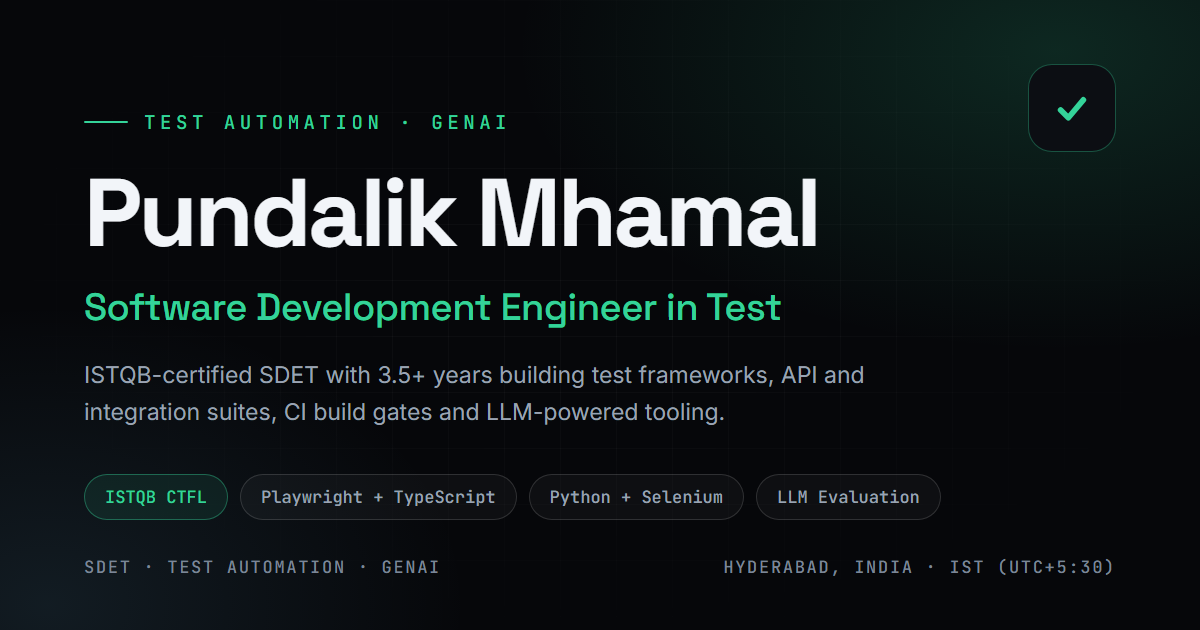
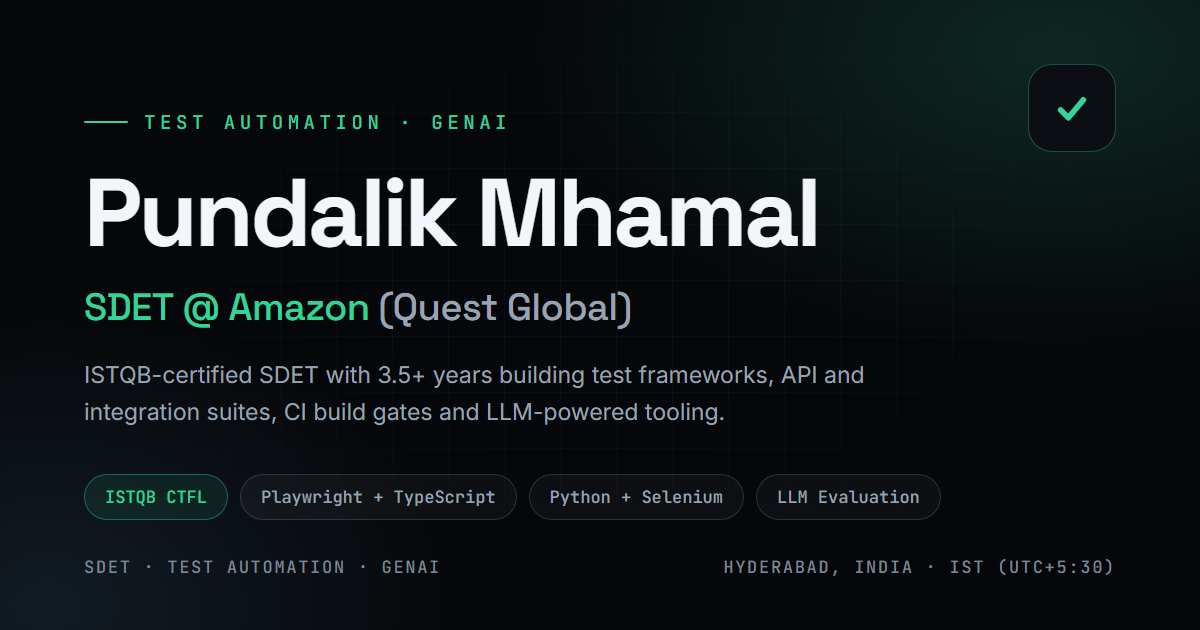
Show the current role as SDET @ Amazon (Quest Global)
At the owner's request, the current role reads "SDET @ Amazon (Quest
Global)" everywhere instead of naming People Tech. Each line stays
literally true ("@ Amazon", "with an Amazon engineering team ... through
Quest Global"); nothing says he was hired by Amazon.

- Hero gains an "SDET @ Amazon (Quest Global)" line above the name.
- Experience, About, contact, footer, loader, page title, share metadata,
  README and the OG card all follow suit.

Changed region(s): [[0.0925, 0.4524, 0.6475, 0.5429]]

diff --git a/index.html b/index.html
@@ -6,20 +6,20 @@
     <meta name="viewport" content="width=device-width, initial-scale=1.0" />
     <meta name="theme-color" content="#06070a" />
 
-    <title>Pundalik Mhamal — SDET</title>
-    <meta name="description" content="Pundalik Mhamal — Software Development Engineer in Test. ISTQB CTFL certified, 3.5+ years building test automation: Playwright + TypeScript, Python + Selenium + BDD, API and integration testing, CI build gates and LLM-powered tooling." />
+    <title>Pundalik Mhamal — SDET @ Amazon (Quest Global)</title>
+    <meta name="description" content="Pundalik Mhamal — SDET @ Amazon (Quest Global). ISTQB CTFL certified, 3.5+ years building test automation: Playwright + TypeScript, Python + Selenium + BDD, API and integration testing, CI build gates and LLM-powered tooling." />
     <meta name="author" content="Pundalik Mhamal" />
     <link rel="canonical" href="https://iampundalikportfolio.netlify.app/" />
 
     <meta property="og:type" content="profile" />
-    <meta property="og:title" content="Pundalik Mhamal — SDET" />
-    <meta property="og:description" content="Software Development Engineer in Test. Test automation frameworks in Playwright + TypeScript and Python + Selenium, API and integration testing, and LLM-powered tooling." />
+    <meta property="og:title" content="Pundalik Mhamal — SDET @ Amazon (Quest Global)" />
+    <meta property="og:description" content="SDET @ Amazon (Quest Global). Test automation frameworks in Playwright + TypeScript and Python + Selenium, API and integration testing, and LLM-powered tooling." />
     <meta property="og:url" content="https://iampundalikportfolio.netlify.app/" />
     <meta property="og:image" content="https://iampundalikportfolio.netlify.app/og.png" />
 
     <meta name="twitter:card" content="summary_large_image" />
-    <meta name="twitter:title" content="Pundalik Mhamal — SDET" />
-    <meta name="twitter:description" content="Software Development Engineer in Test. Test automation frameworks, API and integration testing, and LLM-powered tooling." />
+    <meta name="twitter:title" content="Pundalik Mhamal — SDET @ Amazon (Quest Global)" />
+    <meta name="twitter:description" content="SDET @ Amazon (Quest Global). Test automation frameworks, API and integration testing, and LLM-powered tooling." />
     <meta name="twitter:image" content="https://iampundalikportfolio.netlify.app/og.png" />
 
     <link rel="preconnect" href="https://fonts.googleapis.com" />

diff --git a/src/data/portfolio.ts b/src/data/portfolio.ts
@@ -1,8 +1,8 @@
 export const profile = {
   name: 'PUNDALIK MHAMAL',
   initials: 'PM',
-  role: 'Software Development Engineer in Test',
-  company: 'People Tech Technology',
+  role: 'SDET',
+  company: 'Amazon (Quest Global)',
   tagline: 'Test Automation · API & Integration · GenAI Evaluation',
   email: 'pundalik.mhamal.work@gmail.com',
   phone: '+91 98907 03905',
@@ -111,13 +111,13 @@ export const experience = [
   {
     period: 'Oct 2026 – Present',
     badges: [{ label: 'CURRENT', tone: 'live' as const }],
-    company: 'People Tech Technology',
-    role: 'Software Development Engineer in Test · Hyderabad',
+    company: 'Amazon (Quest Global)',
+    role: 'SDET — Software Development Engineer in Test · Hyderabad',
     bullets: [
-      'Joined in October 2026 as a Software Development Engineer in Test at People Tech Technology, a Quest Global company, placed with an Amazon engineering team.',
+      'SDET with an Amazon engineering team since October 2026, through Quest Global.',
       'Focus areas: test automation frameworks, API and integration testing, and quality gates in CI.',
     ],
-    foot: 'SDET · Test Automation · API & Integration · CI Quality Gates',
+    foot: 'SDET @ Amazon · Test Automation · API & Integration · CI Quality Gates',
     footTone: 'g' as const,
     accent: 'blue' as const,
   },

diff --git a/src/components/About.tsx b/src/components/About.tsx
@@ -6,7 +6,7 @@ import { metrics, profile } from '../data/portfolio';
 import './About.css';
 
 const BLURB =
-  "Three and a half years building test automation and owning quality — most recently on a GLI-regulated, real-money casino platform, and now as an SDET in Hyderabad. I build frameworks from scratch in Playwright + TypeScript and Python + Selenium, run them in CI as build gates, and have shipped an LLM-powered service of my own. If it can break in front of a user, I want to find it first.";
+  "Three and a half years building test automation and owning quality — most recently on a GLI-regulated, real-money casino platform, and now as an SDET @ Amazon (Quest Global) in Hyderabad. I build frameworks from scratch in Playwright + TypeScript and Python + Selenium, run them in CI as build gates, and have shipped an LLM-powered service of my own. If it can break in front of a user, I want to find it first.";
 
 export function About() {
   return (

diff --git a/src/components/Loading.tsx b/src/components/Loading.tsx
@@ -84,7 +84,7 @@ export function Loading({ onDone }: Props) {
 
           <div className="loader__marquee">
             <Marquee speed={60} gradient={false}>
-              <span>SDET</span>
+              <span>SDET @ AMAZON</span>
               <span className="loader__diamond">◆</span>
               <span>TEST AUTOMATION</span>
               <span className="loader__diamond">◆</span>
@@ -94,7 +94,7 @@ export function Loading({ onDone }: Props) {
               <span className="loader__diamond">◆</span>
               <span>ISTQB CERTIFIED</span>
               <span className="loader__diamond">◆</span>
-              <span>SDET</span>
+              <span>SDET @ AMAZON</span>
               <span className="loader__diamond">◆</span>
               <span>TEST AUTOMATION</span>
               <span className="loader__diamond">◆</span>

diff --git a/src/components/Contact.tsx b/src/components/Contact.tsx
@@ -28,10 +28,10 @@ export function Contact() {
             <div className="contact__glow" />
             <div className="contact__avail">
               <span className="contact__avail-dot" />
-              CURRENTLY SDET · HYDERABAD, INDIA
+              SDET @ AMAZON (QUEST GLOBAL) · HYDERABAD
             </div>
             <p className="contact__intro">
-              Software Development Engineer in Test — 3.5+ years across test automation, API
+              SDET @ Amazon (Quest Global) — 3.5+ years across test automation, API
               and integration testing, and LLM-powered tooling. Always happy to talk
               frameworks, testing strategy, or anything quality.
             </p>

diff --git a/src/components/Hero.css b/src/components/Hero.css
@@ -24,6 +24,30 @@
   padding-top: clamp(5.5rem, 11vh, 9rem);
 }
 
+.hero__role {
+  display: inline-flex;
+  align-items: center;
+  gap: .55rem;
+  font-family: var(--mono);
+  font-size: clamp(.72rem, 1.15vw, 1.05rem);
+  font-weight: 600;
+  letter-spacing: .16em;
+  text-transform: uppercase;
+  color: var(--accent);
+  margin-bottom: clamp(.6rem, 1.6vh, 1.2rem);
+}
+.hero__role::before {
+  content: '';
+  width: clamp(18px, 2.4vw, 32px);
+  height: 2px;
+  border-radius: 2px;
+  background: var(--accent);
+}
+.hero__role-via {
+  color: var(--dim2);
+  font-weight: 500;
+}
+
 .hero__h1 {
   font-size: clamp(2.2rem, 10.4vw, 15rem);
   white-space: nowrap;

diff --git a/src/components/Hero.tsx b/src/components/Hero.tsx
@@ -21,6 +21,11 @@ export function Hero() {
     <section className="hero" id="home" ref={ref}>
       <motion.div className="hero__stage" style={{ y, opacity }}>
         <div className="hero__headline">
+          <FadeIn delay={0.05} y={16}>
+            <p className="hero__role">
+              SDET @ Amazon <span className="hero__role-via">(Quest Global)</span>
+            </p>
+          </FadeIn>
           <FadeIn delay={0.15} y={40}>
             <h1 className="hero__h1 hero-heading">Hi, i&apos;m pundalik</h1>
           </FadeIn>

diff --git a/src/components/Experience.tsx b/src/components/Experience.tsx
@@ -13,7 +13,7 @@ export function Experience() {
         label="02 EXPERIENCE"
         line1="WORK"
         line2="HISTORY"
-        sub="Now an SDET. Before that, promoted at a global iGaming leader — 3.5+ years across real-money casino platforms and enterprise RPA."
+        sub="Now SDET @ Amazon (Quest Global). Before that, promoted at a global iGaming leader — 3.5+ years across real-money casino platforms and enterprise RPA."
       />
 
       <div className="exp">

diff --git a/src/components/Footer.tsx b/src/components/Footer.tsx
@@ -5,7 +5,7 @@ export function Footer() {
   return (
     <footer className="footer">
       <div className="footer__l">
-        © {new Date().getFullYear()} Pundalik Mhamal · Software Development Engineer in Test
+        © {new Date().getFullYear()} Pundalik Mhamal · SDET @ Amazon (Quest Global)
         <br />
         {profile.location}
       </div>

diff --git a/README.md b/README.md
@@ -1,6 +1,6 @@
 # Pundalik Mhamal — QA Engineer Portfolio
 
-Personal portfolio site for **Pundalik Mhamal**, Software Development Engineer in Test (SDET).
+Personal portfolio site for **Pundalik Mhamal**, SDET @ Amazon (Quest Global).
 
 Test Automation · API & Integration · GenAI Evaluation · ISTQB CTFL Certified.
 
@@ -27,7 +27,7 @@ No backend. Static site, deployable to any host (Vercel, Netlify, GitHub Pages, 
 - **Custom cursor** — spring-tracked ring (auto-disabled on touch)
 - **Editorial hero + About** — oversized display type, a magnetic 3D object and word-by-word animated text
 - **Capabilities index** — an inverted light slab listing six numbered capabilities
-- **Experience timeline** — People Tech Technology, Light & Wonder and ClaySys Technologies
+- **Experience timeline** — Amazon (Quest Global), Light & Wonder and ClaySys Technologies
 - **Projects** — a sticky, scroll-scaled card stack (BetSettings, BugLogger, an autonomous AI pipeline, BDD suite, SwagLabs)
 - **Tech stack** — 7 resume-backed categories (Playwright, Selenium, TypeScript, Python, REST/SOAP, Gemini API, LLM evaluation, Jenkins, AWS, etc.) with proficiency dots
 - **QA Lab gallery** — scrolling marquee of Allure reports, dashboards, browser sessions, terminals, and AI defect-intake mockups
@@ -109,4 +109,4 @@ For Vercel/Netlify, point the project at this repo — they auto-detect Vite.
 
 ---
 
-SDET · Test Automation · GenAI Evaluation.
+SDET @ Amazon (Quest Global) · Test Automation · GenAI Evaluation.
